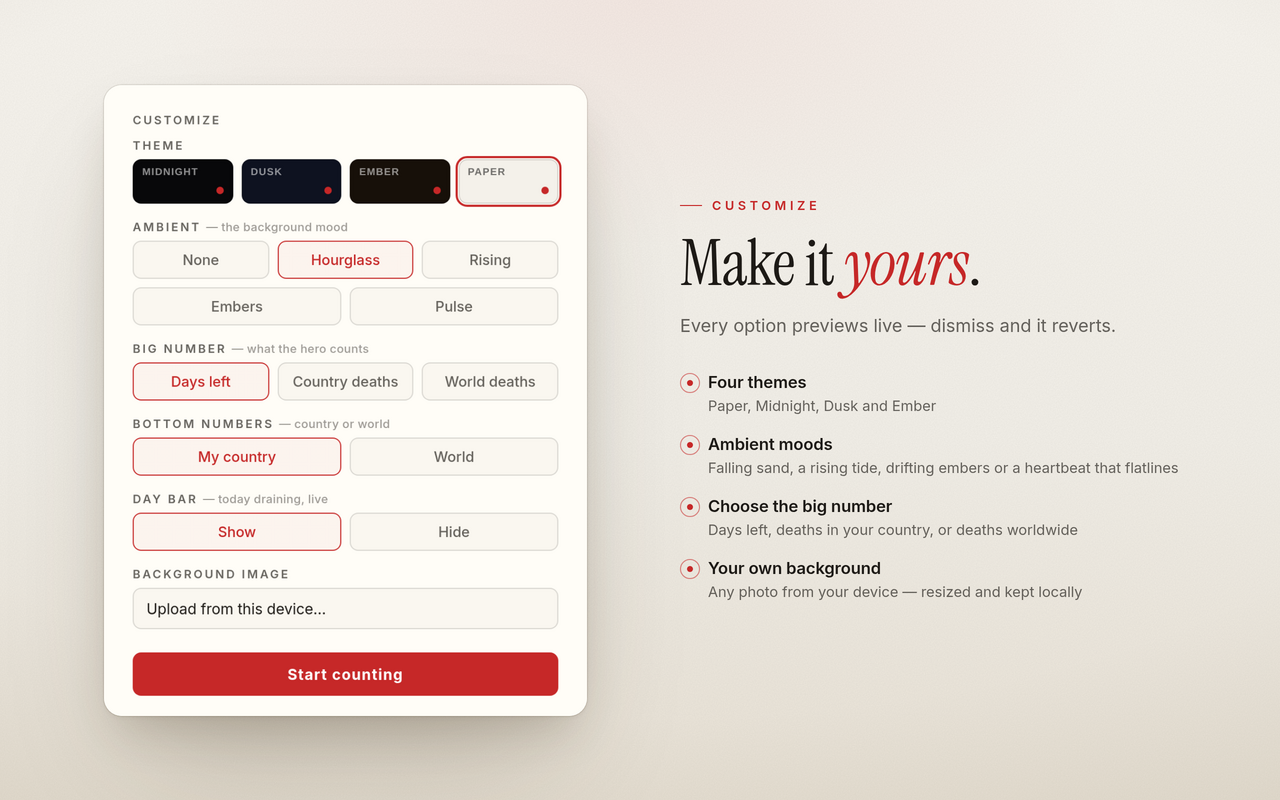
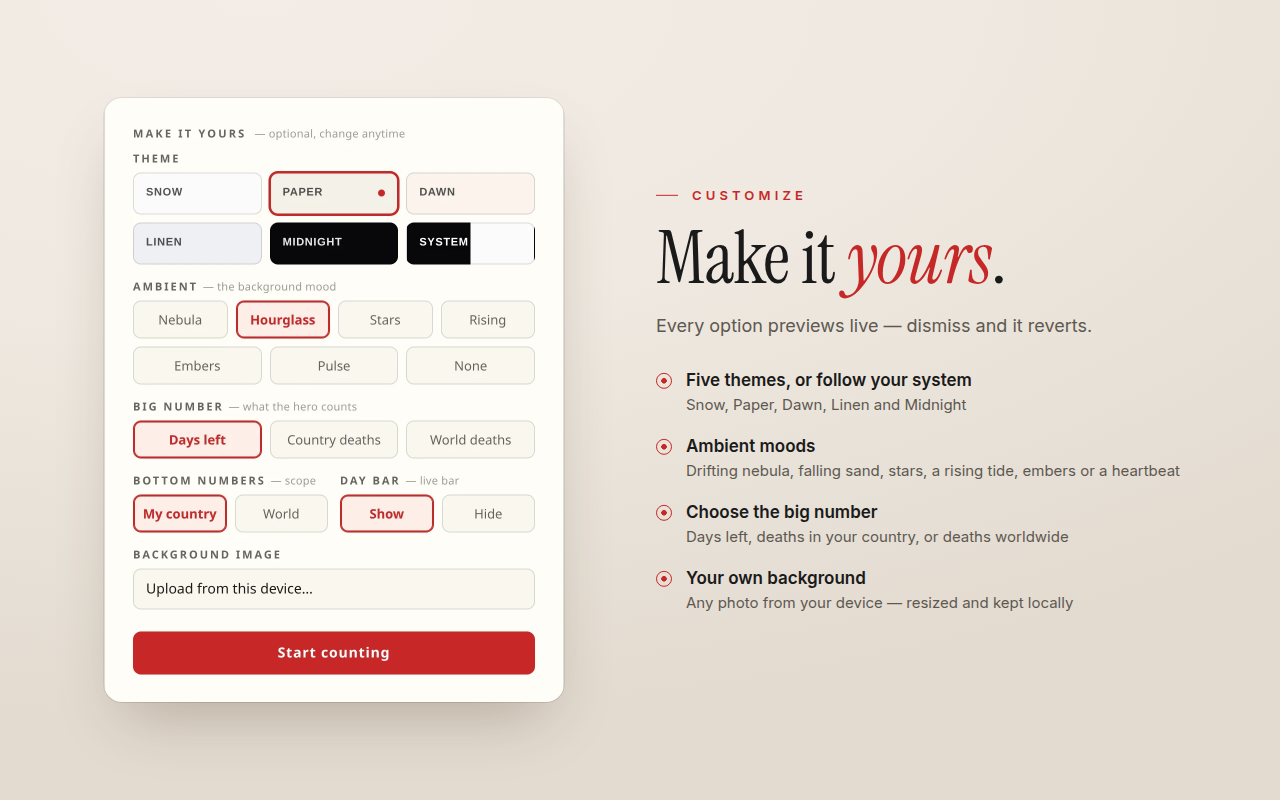
Bring docs and product images back in line with the UI
PRODUCT.md, the store listing and the landing page still described four
themes (Paper, Midnight, Dusk, Ember) and five ambients; the app has had
Snow/Paper/Dawn/Linen/Midnight + System and seven ambients since 1.4.0.
The customize images showed the removed swatches, and every store
screenshot showed the pre-age-adjusted life-expectancy wording (one also
claimed "no extra permissions").

The store screenshots and the landing page's settings image are now
rendered from the real newtab.html by tools/store-shots.js (layouts in
tools/store/listing.html, driven by the dependency-free tools/shot.js), so
they can be regenerated whenever the UI changes. Seven unreferenced pre-1.4
screenshots in store/ (one of the removed Dusk theme) are removed.

diff --git a/tools/store/listing.html b/tools/store/listing.html
@@ -1,0 +1,150 @@
+<!doctype html>
+<!--
+  Template for the Chrome Web Store screenshots, store/listing/0N-*.png.
+  ?n=1..5 picks the layout. Shots 1, 2 and 4 frame the real newtab.html in
+  an iframe; 3 and 5 show crops of the real settings modal
+  (site/assets/customize.webp, tools/store/setup.webp). Shortcut favicons
+  come from tools/store/icons/ because headless Chrome has no favicon cache.
+  Regenerate with: node tools/store-shots.js
+-->
+<html lang="en">
+<head>
+<meta charset="utf-8">
+<style>
+  @font-face { font-family: 'Instrument Serif'; src: url(../../site/fonts/instrument-serif.woff2) format('woff2'); }
+  @font-face { font-family: 'Instrument Serif'; font-style: italic; src: url(../../site/fonts/instrument-serif-italic.woff2) format('woff2'); }
+  @font-face { font-family: 'Inter'; src: url(../../site/fonts/inter.woff2) format('woff2'); font-weight: 100 900; }
+  :root { --ink: #1a1a1a; --muted: #5d5850; --red: #c62828; }
+  html, body { margin: 0; width: 1280px; height: 800px; overflow: hidden; }
+  body {
+    position: relative;
+    background: radial-gradient(120% 90% at 20% 0%, #f4ece6 0%, #efe9e1 45%, #e3dbd0 100%);
+    font-family: Inter, system-ui, sans-serif;
+    color: var(--ink);
+  }
+  .eyebrow { display: flex; align-items: center; gap: 14px; color: var(--red);
+    font-size: 13px; font-weight: 600; letter-spacing: .32em; text-transform: uppercase; }
+  .eyebrow::before, .center .eyebrow::after { content: ''; width: 22px; height: 1px; background: var(--red); }
+  h1 { font-family: 'Instrument Serif', Georgia, serif; font-weight: 400;
+    font-size: 66px; line-height: 1.02; letter-spacing: -.01em; margin: 18px 0 16px; }
+  h1 em { color: var(--red); }
+  .sub { color: var(--muted); font-size: 18px; line-height: 1.55; margin: 0 0 30px; }
+  ul { list-style: none; margin: 0; padding: 0; display: grid; gap: 20px; }
+  li { display: grid; grid-template-columns: 20px 1fr; column-gap: 10px; }
+  li::before { content: ''; width: 14px; height: 14px; margin-top: 3px; border-radius: 50%;
+    border: 1.5px solid var(--red);
+    background: radial-gradient(circle, var(--red) 0 2.5px, transparent 3px); }
+  b { font-size: 17px; font-weight: 600; }
+  li span { grid-column: 2; color: var(--muted); font-size: 15px; line-height: 1.45; margin-top: 4px; }
+
+  .center { position: absolute; left: 0; right: 0; top: 52px; text-align: center; }
+  .center .eyebrow { justify-content: center; }
+  .center h1 { font-size: 62px; margin: 14px 0 10px; }
+  .center .sub { margin: 0; }
+  .side { position: absolute; left: 72px; top: 50%; transform: translateY(-50%); width: 470px; }
+
+  .shadow { box-shadow: 0 1px 0 rgba(0,0,0,.04), 0 30px 60px -20px rgba(60,40,20,.28), 0 0 0 1px rgba(0,0,0,.07); }
+  .browser { position: absolute; overflow: hidden; border-radius: 14px; background: #f3efe8; }
+  .browser .bar { height: 38px; display: flex; align-items: center; gap: 8px; padding: 0 14px;
+    background: #f7f4ee; border-bottom: 1px solid rgba(0,0,0,.06); position: relative; }
+  .browser .bar i { width: 11px; height: 11px; border-radius: 50%; background: #d9d4cc; }
+  .browser .tab { position: absolute; left: 50%; transform: translateX(-50%); width: 330px; height: 24px;
+    border-radius: 7px; background: #ebe6de; display: flex; align-items: center; justify-content: center;
+    gap: 8px; font-size: 13px; color: #555; }
+  .browser .tab img { width: 13px; height: 13px; }
+  .browser iframe { display: block; border: 0; transform-origin: 0 0; }
+  .card { position: absolute; border-radius: 18px; background: #fdfcf8 center / 100% auto no-repeat; }
+</style>
+</head>
+<body>
+<script>
+  var n = Number(new URLSearchParams(location.search).get('n')) || 1;
+  var NEWTAB = '../../newtab.html';
+  var SHORTCUTS = 'GitHub|github.com,Wikipedia|wikipedia.org,YouTube|youtube.com,Reddit|reddit.com,Figma|figma.com';
+  var ME = 'birthday=1991-04-12&sex=male&country=USA&theme=paper';
+
+  function bullets(items) {
+    return '<ul>' + items.map(function (it) {
+      return '<li><b>' + it[0] + '</b><span>' + it[1] + '</span></li>';
+    }).join('') + '</ul>';
+  }
+
+  // A browser window around the live new tab. w/h are the frame's size on the
+  // canvas; vw/vh are the page's own viewport (scaled to fit the frame's
+  // width; a taller page is cropped by the frame, as if scrolled to the top).
+  function browser(opts) {
+    var scale = opts.w / opts.vw;
+    var bar = opts.bar === false ? '' :
+      '<div class="bar"><i></i><i></i><i></i><div class="tab"><img src="../../icons/icon16.png" alt="">New Tab</div></div>';
+    var barH = opts.bar === false ? 0 : 38;
+    var vh = opts.vh || Math.ceil((opts.h - barH) / scale);
+    return '<div class="browser shadow" style="left:' + opts.x + 'px;top:' + opts.y + 'px;width:' + opts.w +
+      'px;height:' + opts.h + 'px">' + bar + '<iframe id="tab" src="' + NEWTAB + '?' + opts.q +
+      '" style="width:' + opts.vw + 'px;height:' + vh + 'px;transform:scale(' + scale + ')"></iframe></div>';
+  }
+
+  var html = {
+    1: '<div class="center"><div class="eyebrow">Memento mori</div>' +
+       '<h1>Every new tab, a quiet <em>reminder</em>.</h1>' +
+       '<p class="sub">A personal death clock that counts down the days you likely have left — live, to the millisecond.</p></div>' +
+       browser({ x: 150, y: 238, w: 980, h: 600, vw: 1180, vh: 820, q: ME + '&ambient=none&shortcuts=' + SHORTCUTS }),
+    2: '<div class="side" style="width:400px"><div class="eyebrow">Real-time death rate</div>' +
+       '<h1>The world’s pulse,<br><em>live</em>.</h1>' +
+       '<p class="sub">Births, deaths and net population change since midnight — ticking up in real time.</p>' +
+       bullets([
+         ['≈ 2 deaths every second', 'Worldwide, extrapolated from World Bank crude rates'],
+         ['Your country or the world', '217 countries — switch with a single click'],
+         ['Make it the big number', 'Put today’s deaths front and center instead of your days left'],
+       ]) + '</div>' +
+       browser({ x: 506, y: 96, w: 860, h: 600, vw: 1180, vh: 800, q: ME + '&ambient=pulse&hero=deaths-world&scope=world' }),
+    3: '<div class="card shadow" style="left:104px;top:98px;width:460px;height:604px;background-image:url(../../site/assets/customize.webp)"></div>' +
+       '<div class="side" style="left:656px;width:560px"><div class="eyebrow">Customize</div>' +
+       '<h1 style="font-size:74px">Make it <em>yours</em>.</h1>' +
+       '<p class="sub">Every option previews live — dismiss and it reverts.</p>' +
+       bullets([
+         ['Five themes, or follow your system', 'Snow, Paper, Dawn, Linen and Midnight'],
+         ['Ambient moods', 'Drifting nebula, falling sand, stars, a rising tide, embers or a heartbeat'],
+         ['Choose the big number', 'Days left, deaths in your country, or deaths worldwide'],
+         ['Your own background', 'Any photo from your device — resized and kept locally'],
+       ]) + '</div>',
+    4: '<div class="center"><div class="eyebrow">Shortcuts</div>' +
+       '<h1>Your favorite sites, <em>one click</em> away.</h1>' +
+       '<p class="sub">Pin up to 12 shortcuts under the countdown — icons from Chrome’s own cache, the sites are never contacted.</p></div>' +
+       browser({ x: 70, y: 238, w: 1140, h: 518, vw: 912, vh: 760, bar: false, q: ME + '&ambient=none&shortcuts=' + SHORTCUTS }),
+    5: '<div class="side" style="width:560px"><div class="eyebrow">Private by design</div>' +
+       '<h1>Three answers.<br><em>That’s the whole setup.</em></h1>' +
+       '<p class="sub">Birthday, sex and country set your life expectancy — the average for someone your age — or use your own estimate.</p>' +
+       bullets([
+         ['Nothing leaves your device', 'Stored locally in Chrome — no account, no sign-up, no tracking'],
+         ['Open data, works offline', 'UN life tables built in; World Bank rates cached for a week'],
+         ['Approximate by design', 'A warning sign, not a diagnosis'],
+       ]) + '</div>' +
+       '<div class="card shadow" style="left:690px;top:76px;width:460px;height:647px;background-image:url(setup.webp)"></div>',
+  }[n];
+  document.write(html);
+
+  // Inside the framed new tab: real favicons (headless Chrome has no favicon
+  // cache) and, for shot 4, the add-shortcut popover mid-entry.
+  var frame = document.getElementById('tab');
+  window.ready = !frame;
+  if (frame) frame.addEventListener('load', function () {
+    var w = frame.contentWindow, d = frame.contentDocument;
+    setTimeout(function () {
+      d.querySelectorAll('.sc-chip').forEach(function (chip) {
+        var name = chip.querySelector('.sc-name').textContent.toLowerCase();
+        var ico = chip.querySelector('.sc-ico');
+        ico.src = new URL('icons/' + name + '.png', location.href).href;
+      });
+      if (n === 4) {
+        d.querySelector('.sc-add').click();
+        d.getElementById('sc-name').value = 'Hacker News';
+        var url = d.getElementById('sc-url');
+        url.value = 'news.ycombinator.com';
+        url.focus();
+      }
+      setTimeout(function () { window.ready = true; }, 300);
+    }, 400);
+  });
+</script>
+</body>
+</html>

diff --git a/tools/shot.js b/tools/shot.js
@@ -1,0 +1,98 @@
+/*
+ * Screenshot a page with headless Chrome — no npm dependencies (Node 22+,
+ * built-in WebSocket over the DevTools protocol). Used to regenerate the
+ * landing-page and store images from the real UI so they cannot drift.
+ *
+ * node tools/shot.js --url <url> --out <file.png|.webp> [--width 1280]
+ *   [--height 800] [--scale 1] [--eval "<js run before the shot>"]
+ *   [--clip "<js returning {x, y, width, height}>"] [--wait 600]
+ * CHROME=/path/to/chrome overrides the browser binary.
+ */
+'use strict';
+const { spawn } = require('child_process');
+const fs = require('fs');
+const os = require('os');
+const path = require('path');
+
+const args = {};
+for (let i = 2; i < process.argv.length; i += 2) args[process.argv[i].replace(/^--/, '')] = process.argv[i + 1];
+if (!args.url || !args.out) {
+  console.error('usage: node tools/shot.js --url <url> --out <file> [--width --height --scale --eval --clip --wait]');
+  process.exit(1);
+}
+const width = Number(args.width || 1280);
+const height = Number(args.height || 800);
+const scale = Number(args.scale || 1);
+const wait = Number(args.wait || 600);
+const chrome = process.env.CHROME || 'google-chrome';
+
+const sleep = (ms) => new Promise((r) => setTimeout(r, ms));
+
+(async () => {
+  const profile = fs.mkdtempSync(path.join(os.tmpdir(), 'memento-shot-'));
+  const proc = spawn(chrome, [
+    '--headless=new', '--disable-gpu', '--hide-scrollbars', '--no-first-run',
+    '--allow-file-access-from-files', '--remote-debugging-port=0',
+    '--user-data-dir=' + profile, 'about:blank',
+  ], { stdio: ['ignore', 'ignore', 'pipe'] });
+
+  const wsUrl = await new Promise((resolve, reject) => {
+    let buf = '';
+    proc.stderr.on('data', (d) => {
+      buf += d;
+      const m = /DevTools listening on (ws:\/\/\S+)/.exec(buf);
+      if (m) resolve(m[1]);
+    });
+    proc.on('exit', () => reject(new Error('chrome exited: ' + buf)));
+  });
+  const port = new URL(wsUrl).port;
+  const targets = await (await fetch(`http://127.0.0.1:${port}/json/list`)).json();
+  const page = targets.find((t) => t.type === 'page');
+
+  const ws = new WebSocket(page.webSocketDebuggerUrl);
+  await new Promise((r) => ws.addEventListener('open', r, { once: true }));
+  let id = 0;
+  const pending = new Map();
+  ws.addEventListener('message', (ev) => {
+    const msg = JSON.parse(ev.data);
+    if (msg.id && pending.has(msg.id)) {
+      const { resolve, reject } = pending.get(msg.id);
+      pending.delete(msg.id);
+      if (msg.error) reject(new Error(msg.error.message));
+      else resolve(msg.result);
+    }
+  });
+  const send = (method, params) => new Promise((resolve, reject) => {
+    const n = ++id;
+    pending.set(n, { resolve, reject });
+    ws.send(JSON.stringify({ id: n, method, params: params || {} }));
+  });
+  const evaluate = async (expr) => {
+    const r = await send('Runtime.evaluate', { expression: expr, returnByValue: true, awaitPromise: true });
+    if (r.exceptionDetails) throw new Error('page error: ' + r.exceptionDetails.text);
+    return r.result.value;
+  };
+
+  try {
+    await send('Emulation.setDeviceMetricsOverride', { width, height, deviceScaleFactor: scale, mobile: false });
+    await send('Emulation.setEmulatedMedia', { features: [{ name: 'prefers-reduced-motion', value: 'reduce' }] });
+    await send('Page.enable');
+    await send('Page.navigate', { url: args.url });
+    await sleep(wait);
+    await evaluate('document.fonts ? document.fonts.ready.then(() => true) : true');
+    if (args.eval) { await evaluate(args.eval); await sleep(wait); }
+
+    const format = /\.webp$/.test(args.out) ? 'webp' : /\.jpe?g$/.test(args.out) ? 'jpeg' : 'png';
+    const params = { format, captureBeyondViewport: true };
+    if (format !== 'png') params.quality = 88;
+    if (args.clip) params.clip = Object.assign({ scale: 1 }, await evaluate(args.clip));
+    const shot = await send('Page.captureScreenshot', params);
+    fs.writeFileSync(args.out, Buffer.from(shot.data, 'base64'));
+    console.log('wrote ' + args.out);
+  } finally {
+    ws.close();
+    proc.kill();
+    await sleep(200);
+    fs.rmSync(profile, { recursive: true, force: true });
+  }
+})().catch((e) => { console.error(e); process.exit(1); });

diff --git a/tools/store-shots.js b/tools/store-shots.js
@@ -1,0 +1,40 @@
+/*
+ * Regenerate every product image from the real UI (needs google-chrome or
+ * CHROME=…): the landing page's settings crop, the store's setup crop, and
+ * the five Chrome Web Store screenshots. Run: node tools/store-shots.js
+ */
+'use strict';
+const { execFileSync } = require('child_process');
+const path = require('path');
+
+const root = path.join(__dirname, '..');
+const file = (p) => 'file://' + path.join(root, p);
+const shot = (args) => execFileSync('node', [path.join(__dirname, 'shot.js')].concat(args), { stdio: 'inherit' });
+
+// The settings modal, opened over a saved profile so every field is filled.
+const MODAL = 'newtab.html?birthday=1991-04-12&sex=male&country=USA&theme=paper';
+const lastSection = "const t = document.querySelectorAll('.modal .section-title'); const sec = t[t.length - 1];";
+
+// Landing page + store shot 3: the "Make it yours" half of the modal.
+shot(['--url', file(MODAL + '&ambient=hourglass'), '--out', path.join(root, 'site/assets/customize.webp'),
+  '--width', '1280', '--height', '1400', '--scale', '2',
+  '--eval', "document.getElementById('gear').click();" + lastSection +
+    "sec.style.borderTopColor = 'transparent'; document.querySelector('.modal .fineprint').style.visibility = 'hidden';",
+  '--clip', '(() => {' + lastSection + "const m = document.querySelector('.modal').getBoundingClientRect();" +
+    "const h = sec.getBoundingClientRect(); const s = document.getElementById('save').getBoundingClientRect();" +
+    'const y = h.top + 15 - 28; return { x: m.left, y: y, width: m.width, height: s.bottom + 28 - y }; })()']);
+
+// Store shot 5: the "About you" half, as a first-run card (no close button).
+shot(['--url', file(MODAL + '&ambient=none'), '--out', path.join(__dirname, 'store/setup.webp'),
+  '--width', '1280', '--height', '1400', '--scale', '2',
+  '--eval', "document.getElementById('gear').click(); document.getElementById('modal-close').style.display = 'none';" +
+    lastSection + "let n = sec; while (n && n.id !== 'save') { const next = n.nextElementSibling; n.style.display = 'none'; n = next; }" +
+    "document.getElementById('save-hint').style.display = 'none';",
+  '--clip', "(() => { const r = document.querySelector('.modal').getBoundingClientRect(); return { x: r.left, y: r.top, width: r.width, height: r.height }; })()"]);
+
+const NAMES = ['01-countdown', '02-world-live', '03-customize', '04-shortcuts', '05-private-setup'];
+NAMES.forEach((name, i) => {
+  shot(['--url', file('tools/store/listing.html?n=' + (i + 1)), '--wait', '1500',
+    '--eval', 'new Promise((r) => { const t = setInterval(() => { if (window.ready) { clearInterval(t); r(true); } }, 50); })',
+    '--out', path.join(root, 'store/listing', name + '-1280x800.png')]);
+});

diff --git a/site/index.html b/site/index.html
@@ -94,15 +94,15 @@ FINISH: unreviewed and undocumented is unfinished; this build ends with the fini
       <div class="copy">
         <h2>Make it yours</h2>
         <dl class="rows">
-          <div><dt>Four themes</dt><dd>Paper, Midnight, Dusk and Ember. Pick the mood your reminder wears.</dd></div>
-          <div><dt>Ambient backgrounds</dt><dd>Falling sand, a rising tide, drifting embers, or a heartbeat that sometimes stops.</dd></div>
+          <div><dt>Five themes</dt><dd>Snow, Paper, Dawn, Linen and Midnight, or follow your system. Pick the mood your reminder wears.</dd></div>
+          <div><dt>Ambient backgrounds</dt><dd>Drifting nebula, falling sand, stars, a rising tide, drifting embers, or a heartbeat that sometimes stops.</dd></div>
           <div><dt>Choose the big number</dt><dd>Your days left, or today’s deaths in your country or the world.</dd></div>
           <div><dt>Your own background</dt><dd>Any photo you like. It never leaves your device.</dd></div>
         </dl>
         <p class="aside">Three questions to start: your birthday, sex and country. That’s it.</p>
       </div>
       <figure class="sheet">
-        <img src="/assets/customize.webp" width="916" height="1196" loading="lazy" alt="Memento's settings: theme swatches for Midnight, Dusk, Ember and Paper; ambient choices None, Hourglass, Rising, Embers and Pulse; big number, bottom numbers and day bar options; background image upload.">
+        <img src="/assets/customize.webp" width="920" height="1208" loading="lazy" alt="Memento's settings: theme swatches for Snow, Paper, Dawn, Linen, Midnight and System; ambient choices Nebula, Hourglass, Stars, Rising, Embers, Pulse and None; big number, bottom numbers and day bar options; background image upload.">
       </figure>
     </section>
 

diff --git a/README.md b/README.md
@@ -174,9 +174,9 @@ MEMENTO/
 ├── js/app.js            # setup modal, tickers, country picker, one-liners
 ├── icons/icon{16,32,48,128}.png
 ├── tests/               # node test suites + render-test screenshots
-├── store/               # Chrome Web Store listing screenshots (1280×800)
+├── store/listing/       # Chrome Web Store listing copy + screenshots (generated)
 ├── docs/screenshots/    # README images
-└── tools/               # one-shot generators for baseline.js and the icons
+└── tools/               # generators: baseline.js, lifetables.js, icons, screenshots
 ```
 
 No framework, no build step, no CDN — vanilla HTML/CSS/JS only.
@@ -198,6 +198,18 @@ google-chrome --headless=new --disable-gpu --screenshot=/tmp/shot.png \
   "file://$PWD/newtab.html?birthday=1990-06-15&sex=male&country=BGD&theme=midnight&ambient=nebula&hero=deaths-world"
 ```
 
+### Regenerating screenshots
+
+The store screenshots (`store/listing/`) and the landing page's settings image
+are rendered from the real UI, so they never drift from it:
+
+```sh
+node tools/store-shots.js   # needs google-chrome (or CHROME=/path/to/chrome), Node 22+
+```
+
+Layouts live in `tools/store/listing.html`; `tools/shot.js` is the
+dependency-free headless-Chrome screenshotter behind it.
+
 URL params: `birthday`, `sex`, `country`, `theme` (snow|paper|dawn|linen|midnight|system),
 `ambient` (nebula|hourglass|stars|tide|embers|pulse|none),
 `hero` (days-left|deaths-country|deaths-world), `le` (custom life expectancy in
@@ -211,4 +223,5 @@ Omit them all to see the first-run setup modal.
 ```sh
 node tools/gen-baseline.js   # refresh js/baseline.js from the live API
 node tools/gen-icons.js      # redraw icons/icon*.png
+node tools/gen-lifetables.js <WPP2024_Life_Table_Abridged_Medium_2024-2100.csv.gz>  # refresh js/lifetables.js
 ```

diff --git a/PRODUCT.md b/PRODUCT.md
@@ -27,7 +27,7 @@ A death clock that is honest about its numbers: UN life tables (age-adjusted) an
 - Days-left countdown with a live hh:mm:ss.mmm sub-counter; bonus-days mode once the expectancy is passed.
 - Day bar (today draining), life-so-far line and progress bar, daily one-liner.
 - Real-time deaths/second, births today, deaths today, net change today for one country (217 + World) or the world.
-- Shortcut chips (max 12), four themes (Paper, Midnight, Dusk, Ember) plus a System option that follows the device's light/dark mode, five ambient modes (None, Hourglass, Rising, Embers, Pulse), hero choice (days left / country deaths / world deaths), own background image.
+- Shortcut chips (max 12), five themes (Snow — the default, Paper, Dawn, Linen, Midnight) plus a System option that follows the device's light/dark mode, seven ambient modes (Nebula — the default, Hourglass, Stars, Rising, Embers, Pulse, None), hero choice (days left / country deaths / world deaths), own background image.
 - Permissions: `storage`, `unlimitedStorage`, `favicon`, host `https://api.worldbank.org/*`. No analytics, no accounts, no remote code.
 - Chrome Web Store item ID: `khkpihpkonaehkepjhdcpjnnjghflecj`. Listing may still be in review.
 

diff --git a/store/listing/LISTING.md b/store/listing/LISTING.md
@@ -32,8 +32,8 @@ ON EVERY NEW TAB
 • Bonus mode: outlived the average? It counts your bonus days instead
 
 MAKE IT YOURS
-• Four themes: Paper (light), Midnight, Dusk and Ember
-• Ambient backgrounds: falling hourglass sand, a rising tide, drifting embers, a heartbeat that sometimes flatlines, or none at all
+• Five themes — Snow, Paper, Dawn, Linen and Midnight — or follow your system's light/dark mode
+• Ambient backgrounds: drifting nebula clouds, falling hourglass sand, a starfield, a rising tide, drifting embers, a heartbeat that sometimes flatlines, or none at all
 • Choose the big number: your days left, deaths today in your country, or deaths today worldwide
 • Life expectancy your way: the average for someone of your age, sex and country, or your own estimate
 • Your own background photo, resized and stored on your device
